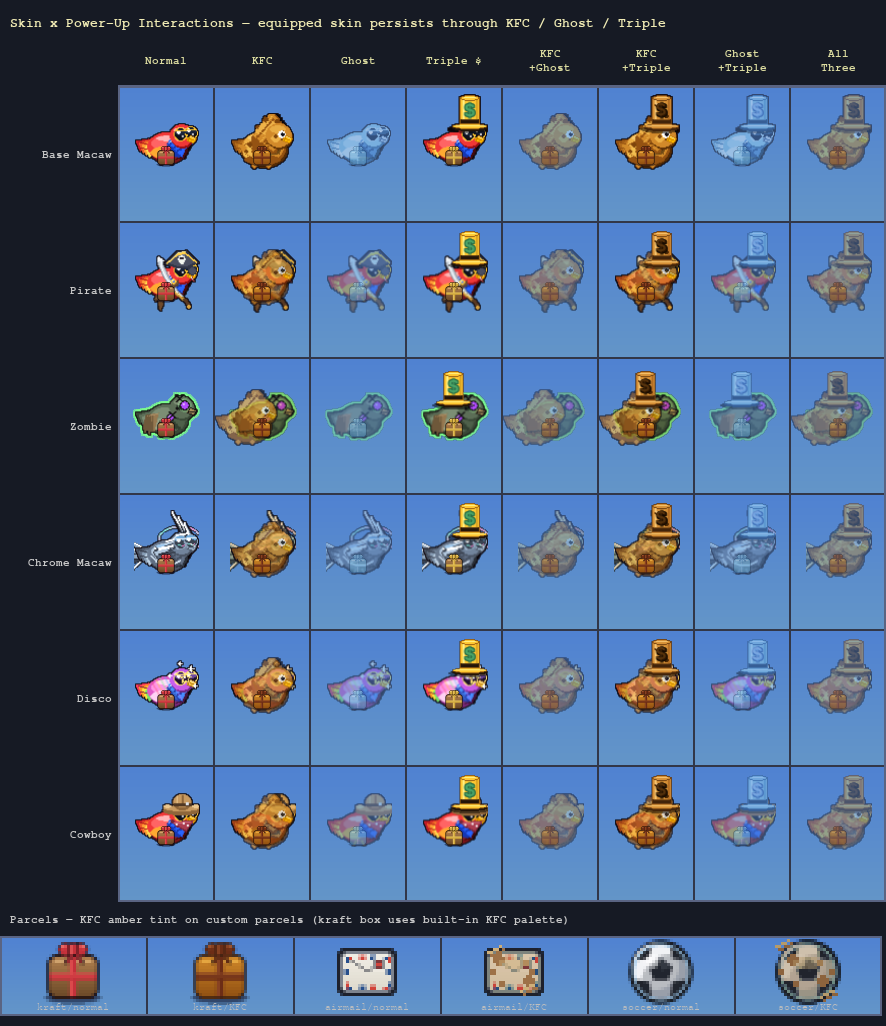
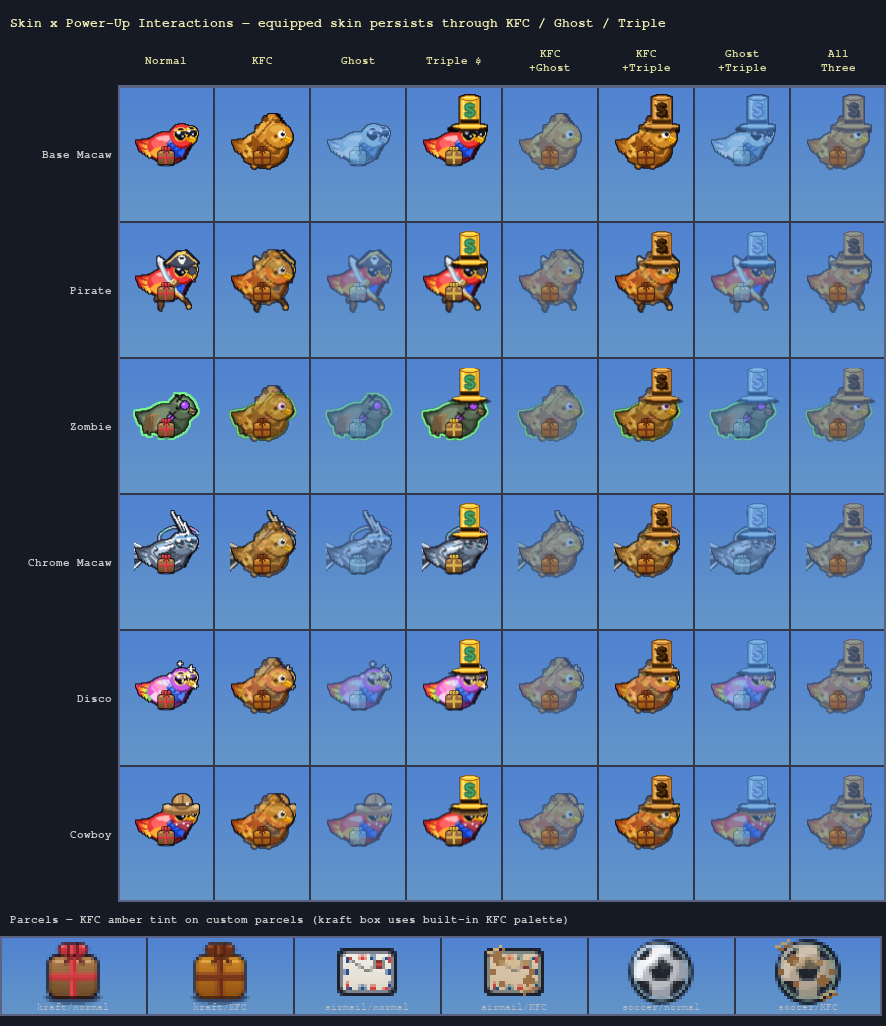
Fix zombie KFC overlay displacement in skin power-up composites
The zombie skin is 100×96 (64×60 raw + 2px outline + 16px aura on every
side) while standard costume skins are 68×104. The KFC frame and hat
anchor were hardcoded to (0,20) and (49,32) calibrated for 68×104 only,
causing the fried overlay and hat to appear shifted on zombie.

Compute ax=(iw-68)//2, ay=(ih-64)//2 from each frame's actual size:
- standard 68×104 → ax=0, ay=20 (unchanged)
- zombie  100×96  → ax=16, ay=16 (correct aura-offset alignment)

Same formula covers both without per-skin branching.

Claude-Session: https://claude.ai/code/session_015DxSDkCugqKBGykq6WeVnV

diff --git a/game/parrot.py b/game/parrot.py
@@ -1099,24 +1099,28 @@ def build_skin_powerup_composites(skin_id: str) -> None:
                 frames = []
                 for fi in range(4):
                     img = get_skin_frame(skin_id, fi, 0.0).copy()
+                    iw, ih = img.get_size()
+                    # Standard 68×104 skin: ax=0, ay=20 (= PARROT_DY).
+                    # Zombie 100×96 (16 px aura on every side): ax=ay=16.
+                    # The same formula aligns both KFC overlay and hat anchor
+                    # without any per-skin branching.
+                    ax = (iw - 68) // 2
+                    ay = (ih - 64) // 2
                     if kfc_f:
                         # Warm the ~30% skin that shows through toward amber.
                         _cyan_tint_in_place(img, tint=_CRISPY_GOLD, strength=0.35)
                         # Overlay the bespoke KFC fried frame at 70% opacity so the
                         # plumper fried-chicken shape dominates the macaw silhouette.
-                        # KFC frames are 68×64; skin frames are 68×104.
-                        # Blit at y=20 (PARROT_DY) aligns the body centers.
                         kfc_frame = _get_kfc_frames()[fi].copy()
                         kfc_frame.fill((255, 255, 255, 178), special_flags=pygame.BLEND_RGBA_MULT)
-                        img.blit(kfc_frame, (0, 20))
+                        img.blit(kfc_frame, (ax, ay))
                     if triple_f:
-                        # $ stovepipe hat at the shared macaw brim anchor.
-                        # Raw-composite anchor (47,30) + 2 px outline pad = (49,32)
-                        # in the 68x104 outlined frame all 31 store skins share.
+                        # $ stovepipe hat: brim anchor in 68×64 core space is (49,12);
+                        # shift by (ax, ay) to reach canvas space.
                         hat_fn = (draw_stovepipe_kfc   if kfc_f
                                   else draw_stovepipe_ghost if ghost_f
                                   else draw_stovepipe)
-                        hat_fn(img, 49, 32)
+                        hat_fn(img, 49 + ax, 12 + ay)
                     if ghost_f:
                         _cyan_tint_in_place(img)
                     frames.append(img)
